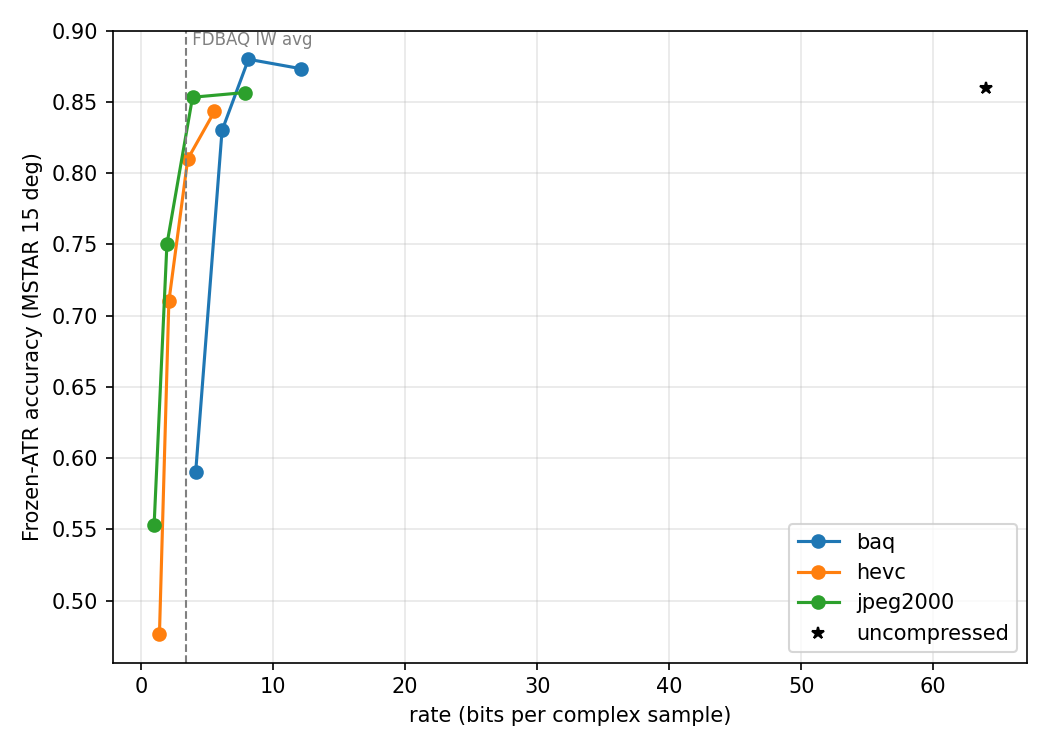
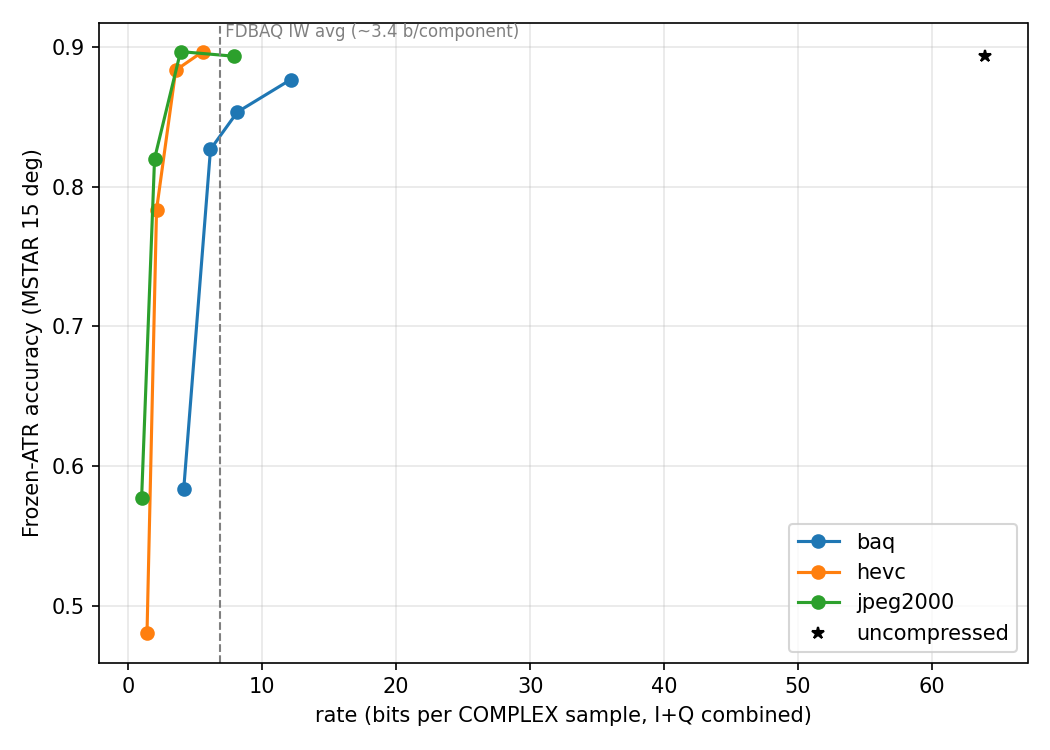
Rate-unit convention pinned (bits/complex-sample) + codec timing + R_c
FDBAQ reference corrected from 3.4 to ~6.8 on our axis (ESA quotes
per-component). R_c = 4.69 b/complex (~2.3 b/component); GO target 2.35
b/complex (~1.2 b/component), ~3x below FDBAQ-class rate. eval_focused now
logs encode+decode wall time and Msamples/s — the 'why not just HEVC'
onboard-compute answer and the Phase II measurement, started while cheap.

diff --git a/scripts/plot_curves.py b/scripts/plot_curves.py
@@ -20,15 +20,17 @@ for line in open("experiments/runs.jsonl"):
     runs[(r.get("domain", "s1"), r["codec"], round(r["rate_bps"], 2))] = r
 
 Path("reports").mkdir(exist_ok=True)
-for metric, label, fname in [
-    ("cfar_pd", "CFAR detection agreement (Pd)", "rate_vs_pd.png"),
-    ("mse", "MSE (raw I/Q)", "rate_vs_mse.png"),
-    ("phase_rmse", "Phase RMSE (rad)", "rate_vs_phase.png"),
-    ("atr_acc", "Frozen-ATR accuracy (MSTAR 15 deg)", "rate_vs_atr.png"),
-]:
+PLOTS = [
+    # (metric, required domain, label, filename)
+    ("cfar_pd", "s1_focused", "Post-focus CFAR detection agreement (Pd)", "rate_vs_pd.png"),
+    ("mse", "s1", "MSE (raw I/Q)", "rate_vs_mse.png"),
+    ("phase_rmse", "s1", "Phase RMSE (rad)", "rate_vs_phase.png"),
+    ("atr_acc", "mstar", "Frozen-ATR accuracy (MSTAR 15 deg)", "rate_vs_atr.png"),
+]
+for metric, domain, label, fname in PLOTS:
     by_codec = {}
     for r in runs.values():
-        if metric in r and r[metric] == r[metric]:  # present and not NaN
+        if r.get("domain", "s1") == domain and metric in r and r[metric] == r[metric]:
             by_codec.setdefault(r["codec"], []).append(r)
     if not by_codec:
         continue
@@ -37,12 +39,13 @@ for metric, label, fname in [
         rows = sorted(rows, key=lambda r: r["rate_bps"])
         style = "o-" if codec != "uncompressed" else "k*"
         ax.plot([r["rate_bps"] for r in rows], [r[metric] for r in rows], style, label=codec)
-    ax.set_xlabel("rate (bits per complex sample)")
+    ax.set_xlabel("rate (bits per COMPLEX sample, I+Q combined)")
     ax.set_ylabel(label)
     if metric == "mse":
         ax.set_yscale("log")
-    ax.axvline(3.4, ls="--", lw=1, color="gray")
-    ax.text(3.45, ax.get_ylim()[1], " FDBAQ IW avg", va="top", fontsize=8, color="gray")
+    # ESA quotes FDBAQ per real component (~3.4); on this axis that is ~6.8
+    ax.axvline(6.8, ls="--", lw=1, color="gray")
+    ax.text(6.85, ax.get_ylim()[1], " FDBAQ IW avg (~3.4 b/component)", va="top", fontsize=8, color="gray")
     ax.legend()
     ax.grid(alpha=0.3)
     fig.tight_layout()

diff --git a/scripts/eval_focused.py b/scripts/eval_focused.py
@@ -11,6 +11,7 @@ ground truth.
 
 import argparse
 import sys
+import time
 from pathlib import Path
 
 sys.path.insert(0, str(Path(__file__).resolve().parents[1]))
@@ -75,7 +76,12 @@ def main():
 
     for codec_cfg in cfg["codecs"]:
         for name, params in operating_points(codec_cfg):
+            # wall time for encode+decode combined — crude (Python vs native
+            # varies by orders of magnitude) but answers "why not just HEVC?"
+            # with the onboard-compute argument Phase II will demand properly
+            t0 = time.perf_counter()
             raw_hat, rate = CODECS[name](raw, **params)
+            codec_s = time.perf_counter() - t0
             img_hat = focus_stripmap(raw_hat, meta)
             del raw_hat
             det = detection_agreement(interior(ref), interior(img_hat), **cfar_cfg)
@@ -84,9 +90,11 @@ def main():
                 "codec": name, "params": params, "domain": "s1_focused",
                 "rate_bps": float(rate), "cfar_pd": det["pd"],
                 "cfar_false": det["n_false"], "n_ref_detections": det["n_ref"],
+                "codec_seconds": round(codec_s, 2),
+                "msamples_per_s": round(raw.size / codec_s / 1e6, 2),
             })
             print(f"{name} {params}: rate={rate:.2f} bps  pd={det['pd']:.3f}  "
-                  f"false={det['n_false']}  n_ref={det['n_ref']}")
+                  f"false={det['n_false']}  codec_s={codec_s:.1f}")
 
 
 if __name__ == "__main__":

diff --git a/reports/FINDINGS.md b/reports/FINDINGS.md
@@ -3,6 +3,12 @@
 Running notes toward the 1–2 page feasibility summary. Newest at the bottom.
 Numbers regenerable from `experiments/runs.jsonl` via `scripts/plot_curves.py`.
 
+**RATE UNIT CONVENTION (applies to every number in this file and every plot):
+bits per COMPLEX sample, I and Q combined.** ESA quotes FDBAQ per real
+component (~2.6–3.6 bits/component in IW); on our axis that is ~5–7, nominal
+**~6.8 bits/complex-sample**. Our BAQ n-bit points sit at 2n + 16/block bps.
+Any comparison to published per-component figures must double them first.
+
 ## Weekend 1 — classical baselines on real data (2026-08-06)
 
 **Setup.** 1,268 train / 223 val complex 256×256 patches from 4 echo chunks of
@@ -15,8 +21,10 @@ after range compression; small CNN ATR trained once on uncompressed chips
 **Headline.** Classical codecs collapse on radar-utility metrics well above
 the rates where they look acceptable on MSE:
 
-- At FDBAQ's ~3.4 bits/complex-sample operating point, the best classical
-  codec preserves only ~20–30% of CFAR detections.
+- At ~4 bits/complex-sample (below FDBAQ's ~6.8; unit correction applied
+  2026-08-06, see convention above), the best classical codec preserves only
+  ~20–30% of CFAR detections. [Section retracted as operational claim — see
+  Weekend 1c; pre-focus scoring.]
 - No classical codec exceeds Pd 0.8 below ~8–12 bits/sample.
 - JPEG2000 beats BAQ per bit at moderate rates (transform coding exploits
   spatial correlation BAQ ignores) but degrades phase fastest — phase RMSE
@@ -151,6 +159,17 @@ of reference (2,339):
 | J2K r32 | 1.00 | 0.566 | 5,128 | no |
 | HEVC qp28 | 7.71 | 0.969 | 705 | yes |
 | HEVC qp36 | 4.69 | 0.901 | 1,858 | yes |
+
+**R_c determination (low-rate extension, same pipeline):** BAQ 1-bit
+(2.12 bps) Pd 0.660; HEVC qp40 (3.18 bps) Pd 0.825 with 2,578 spurious
+(fails both criteria); HEVC qp44 (1.82 bps) Pd 0.717; JPEG2000 r64/r128
+(0.50/0.25 bps) Pd 0.438/0.323. No classical codec sustains utility below
+4.69 bps. **R_c = 4.69 bits/complex-sample (~2.3 bits/component) ->
+pre-registered GO target: sustain utility at <= 2.35 bits/complex-sample
+(~1.2 bits/component), i.e. ~3x below the FDBAQ-class operating point.** That target sits below BAQ's physical
+floor (~2.1 bps is already failing) and in the regime where transform codecs
+have lost 20-30 points of Pd — a genuine, quantified gap for the learned
+codec, narrower but far more defensible than the retracted pre-focus version.
 
 Focusing gain suppressed compression noise exactly as predicted in advance:
 BAQ 2-bit Pd went 0.29 (pre-focus) -> 0.85 (post-focus), and the operational
